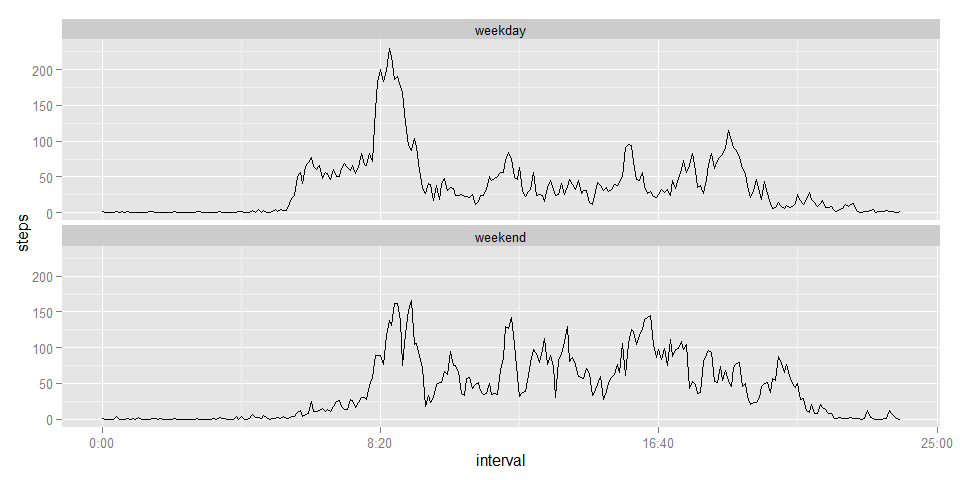
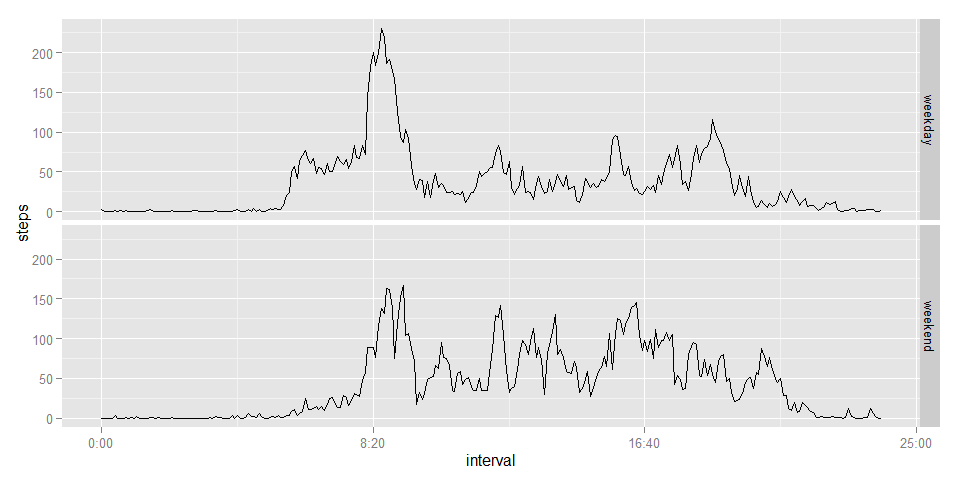
Minor changes to spelling, and one chart replotted

diff --git a/PA1_template.html b/PA1_template.html
@@ -82,7 +82,7 @@ img {
 <div id="loading-and-preprocessing-the-data" class="section level2">
 <h2>Loading and preprocessing the data</h2>
 <p>The file in the initial fork is in a zip archive in the current working directory. Extract and read it in.</p>
-<p>Look at the structure of the data to get a feel for the preprocessing requried.</p>
+<p>Look at the structure of the data to get a feel for the preprocessing required.</p>
 <pre class="r"><code>data&lt;-read.csv(unz(&quot;./activity.zip&quot;,&quot;activity.csv&quot;))
 str(data)</code></pre>
 <pre><code>## 'data.frame':    17568 obs. of  3 variables:
@@ -95,7 +95,7 @@ str(data)</code></pre>
 #                                  data$interval%%100))
 # class(data$interval)
 # head(data,12)</code></pre>
-<p>however this spoils the look of the time series plot, which would no longer have a line. Leaving it as is means that that plot would be misleading, it would appear continuous but in fact there would be jumps of 40 minutes every hour. So instead it is converted to minutes as follows:</p>
+<p>however this spoils the look of the time series plot, which would no longer have a line. With no change, the line would appear continuous, but in fact there would be jumps of 40 minutes every hour. So instead it is converted to minutes as follows:</p>
 <pre class="r"><code>data$interval&lt;-data$interval%/%100*60+data$interval%%100
 class(data$interval)</code></pre>
 <pre><code>## [1] &quot;numeric&quot;</code></pre>
@@ -142,7 +142,7 @@ top_interval</code></pre>
 ## 
 ##   interval
 ## 1      515</code></pre>
-<p>So the top interval starts at 515 minutes, in other words from<br />8:35 to 8:40.</p>
+<p>So the top interval starts at 515 minutes, in other words from 8:35 to 8:40.</p>
 </div>
 <div id="imputing-missing-values" class="section level2">
 <h2>Imputing missing values</h2>
@@ -187,7 +187,7 @@ imputed_median_total_steps_per_day</code></pre>
                        &quot;weekend&quot;,&quot;weekday&quot;))) %&gt;% 
         group_by(daytype, interval) %&gt;%
         summarise(steps=mean(steps))</code></pre>
-<p>Using ggplot to create a panel plot similar to the reference one in the original readme for this assignment.The plot shows a significantly lower spike in the number of steps taken around 8:30 am, and slightly increased activity over the rest of the day.</p>
+<p>Using ggplot to create a panel plot similar to the reference one in the original readme for this assignment.</p>
 <pre class="r"><code>timeHM_formatter &lt;- function(x) {
     h &lt;- floor(x/60)
     m &lt;- floor(x %% 60)
@@ -199,8 +199,8 @@ imputed_median_total_steps_per_day</code></pre>
 ggplot(week_data, aes(x = interval, y = steps, group = daytype)) +
         geom_line() +
         scale_x_continuous(label=timeHM_formatter) +
-        facet_wrap(~ daytype, ncol=1  )</code></pre>
[1 lines of base64/hex data omitted]
+        facet_grid(daytype~.)</code></pre>
[1 lines of base64/hex data omitted]
 </div>
 
 

diff --git a/PA1_template.md b/PA1_template.md
@@ -30,7 +30,7 @@ require(ggplot2)
 ## Loading and preprocessing the data
 The file in the initial fork is in a zip archive in the current working directory. Extract and read it in.
 
-Look at the structure of the data to get a feel for the preprocessing requried.
+Look at the structure of the data to get a feel for the preprocessing required.
 
 
 ```r
@@ -54,7 +54,7 @@ The interval column is an integer, with the hundreds representing the hour. This
 # class(data$interval)
 # head(data,12)
 ```
-however this spoils the look of the time series plot, which would no longer have a line. Leaving it as is means that that plot would be misleading, it would appear continuous but in fact there would be jumps of 40 minutes every hour. So instead it is converted to minutes as follows:
+however this spoils the look of the time series plot, which would no longer have a line. With no change, the line would appear continuous, but in fact there would be jumps of 40 minutes every hour. So instead it is converted to minutes as follows:
 
 ```r
 data$interval<-data$interval%/%100*60+data$interval%%100
@@ -141,9 +141,7 @@ top_interval
 ##   interval
 ## 1      515
 ```
-So the top interval starts at 515 minutes, in other words from  
-8:35 to
-8:40.
+So the top interval starts at 515 minutes, in other words from 8:35 to 8:40.
 
 ## Imputing missing values
 To determine the number of missing values, create a logical vector and count them by creating the sum, since the TRUE values are 1, and the false ones are 0.
@@ -159,8 +157,8 @@ sum(missing)
 This shows 2304 intervals have no recorded steps.
 
 Creating a new dataset with the NA values replaced with the median across all days of the interval can be achieved by
-* adding this value to the dataframe using a join to the previously created interval_data summary table
-* copying this value to the steps field for all rows with an NA steps value
+        * adding this value to the dataframe using a join to the previously created interval_data summary table
+        * copying this value to the steps field for all rows with an NA steps value
 
 
 ```r
@@ -232,7 +230,7 @@ week_data<-imputed_data %>%
         summarise(steps=mean(steps))
 ```
 
-Using ggplot to create a panel plot similar to the reference one in the original readme for this assignment.The plot shows a significantly lower spike in the number of steps taken around 8:30 am, and slightly increased activity over the rest of the day. 
+Using ggplot to create a panel plot similar to the reference one in the original readme for this assignment.
 
 ```r
 timeHM_formatter <- function(x) {
@@ -246,7 +244,8 @@ timeHM_formatter <- function(x) {
 ggplot(week_data, aes(x = interval, y = steps, group = daytype)) +
         geom_line() +
         scale_x_continuous(label=timeHM_formatter) +
-        facet_wrap(~ daytype, ncol=1  )
+        facet_grid(daytype~.)
 ```
 
 ![](PA1_template_files/figure-html/unnamed-chunk-14-1.png) 
+The plot shows a significantly lower spike during weekends in the number of steps taken around 8:30 am, and slightly increased activity over the rest of the day. 
